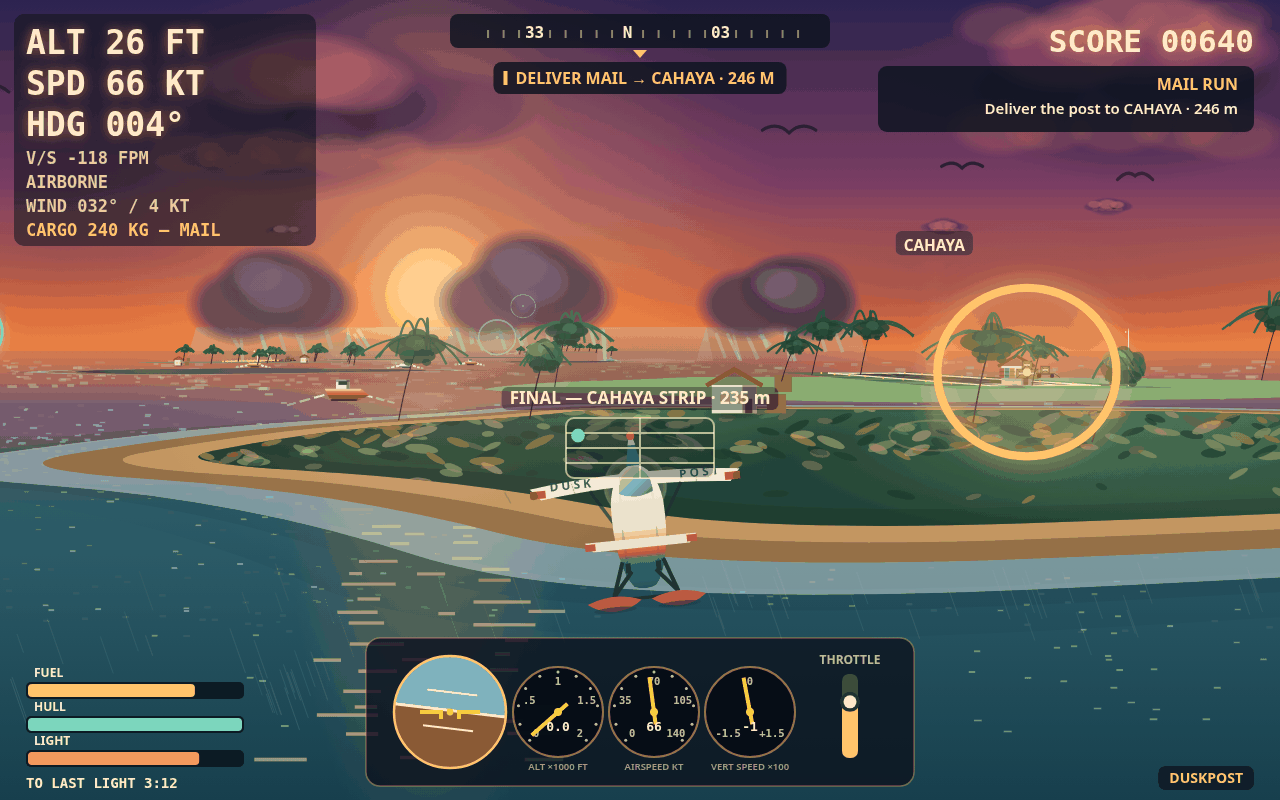
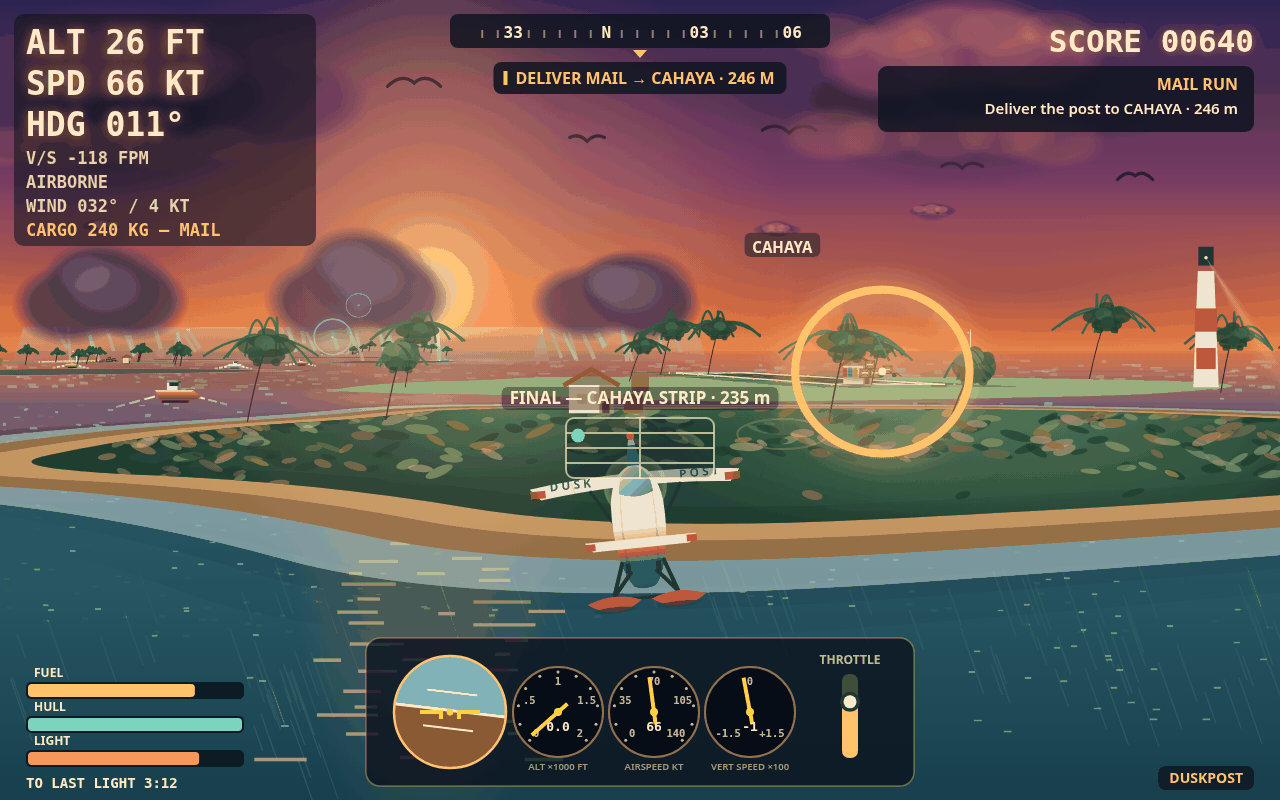
V50: the sun has a disc now, the lighthouse is back, and the gulls are in the open sky (COVER-TURN + BIRDS-SHIFT)

diff --git a/game/src/render.js b/game/src/render.js
@@ -138,7 +138,18 @@ function drawBirds(ctx, v, light, t, sunBlock) {
   for (let i = 0; i < 7; i += 1) { // V49 BIRDS-2: two more gulls for the empty top-left sky
     const bh = Math.sin(i * 12.9898 + 4.7) * 43758.5453;
     const bf = bh - Math.floor(bh);
-    const bx = ((i * 173 + 890 + t * 7) % 1500) - 110;
+    // V50 BIRDS-SHIFT: V49's two new gulls are invisible on the
+    // cover — but NOT dark-on-dark as V49 claimed. Gull 5 at
+    // (154,92) sits BEHIND the HUD panel (judge (92,55) inside the
+    // panel x6-180, y9-141; its stroke contrasts -92.6 against its
+    // neighbours at full size), and gull 6 at (327,150) is a 2 px
+    // curve on mid-mauve sky. Shift the two new gulls (i>=5) +260 px
+    // into open sky: full (414,92) and (587,150) on the cover, clear
+    // of the panel, the mission pill, the compass strip and the CAHAYA
+    // pill. Probe-proven on all six frames: both gulls read in the
+    // cover's open sky and collide with nothing on any frame.
+    let bx = ((i * 173 + 890 + t * 7) % 1500) - 110;
+    if (i >= 5) bx += 260;
     const by = v.horizon - 148 - bf * 92 - i * 9 + Math.sin(t * 0.9 + i * 1.7) * 5;
     const bw = 17 + bf * 12;
     const flap = Math.sin(t * 5.2 + i * 2.3) * 0.45;

diff --git a/game/src/shots.js b/game/src/shots.js
@@ -263,7 +263,18 @@ export function stageShot(name, seed) {
     plane.x = isl.x - 74;
     plane.z = isl.z - 235;
     plane.y = 8;
-    plane.hdg = 0.07;
+    // V50 COVER-TURN: the sun is screen-fixed (sunX =
+    // VIEW_W*0.335) while the storm cell is world-projected and sits
+    // dead on the sun (V43 probe: cell disc (422,299) r123 vs sun
+    // (429,285) r47) — the disc has never shown on the cover. Turn
+    // the camera ~0.12 rad (~7 deg, a turn onto final, HDG ~011 deg):
+    // the cell swings ~166 px left off the disc, the island swings
+    // with it (the lighthouse enters frame at the right edge), and the
+    // world-anchored furniture (ring, strip, FINAL text, ladder,
+    // CAHAYA pill) moves together, so no screen-space collision.
+    // Probe-proven: the disc reads in open sky and the lighthouse
+    // reads as a red-white tower at the right edge.
+    plane.hdg = 0.19;
     plane.speed = 34;
     plane.throttle = 0.72;
     plane.vy = -0.6;
